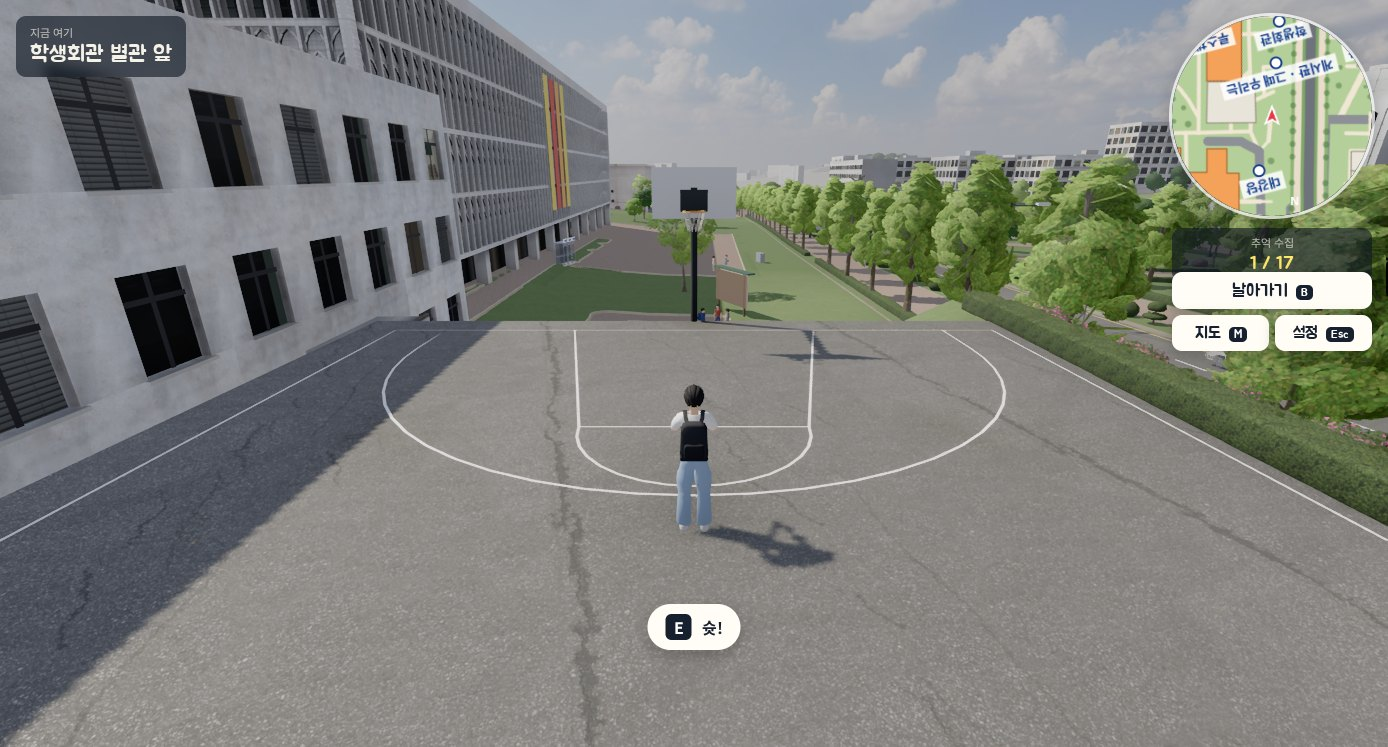
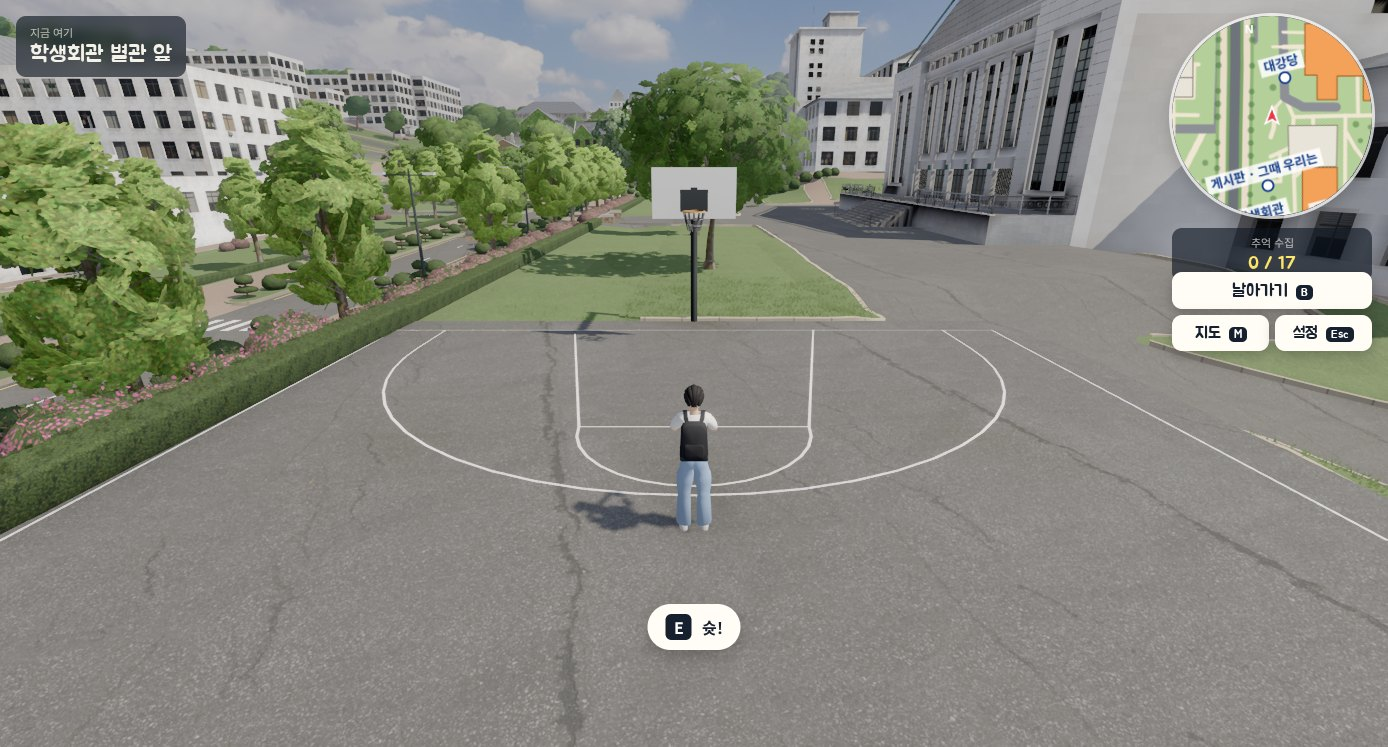
농구공을 생울타리 속에서 코트 안으로 옮김
공이 놓이는 자리가 서쪽 사이드라인 1 m 밖이라, 둑 위 단 가장자리에
심은 낮은 생울타리 속에 들어가 보이지 않았음. 가운데 원에서 북쪽
골대 쪽으로 3.6 m, 코트로 날아가거나 남쪽에서 걸어 들어오면 바로
앞에 보이는 자리로.

diff --git a/web/src/hoops.js b/web/src/hoops.js
@@ -50,8 +50,10 @@ export class Basketball {
       const board = this.toWorld(sg * (court.L / 2 - 1.2), 0);
       return { sg, rim: new THREE.Vector3(rim[0], court.h + RIM_H, -rim[1]), board: new THREE.Vector3(board[0], court.h, -board[1]) };
     });
-    // the ball lies just outside the sideline (on the slab's margin), a few metres from the middle of the court
-    const home = this.toWorld(-3.0, court.W / 2 + 0.8);
+    // the ball lies on the court a few metres from the centre circle towards the north basket, in view of a walker
+    // sent to the court (who stands in the circle, or comes up from the south).  Not off the sideline: the slab's
+    // margin there is the low hedge along the bank's top, which hid it
+    const home = this.toWorld(3.0, 2.0);
     this.home = new THREE.Vector3(home[0], this.floorAt(home[0], -home[1], 1000) + R, -home[1]);
     this.pos = this.home.clone();
     this.vel = new THREE.Vector3();
